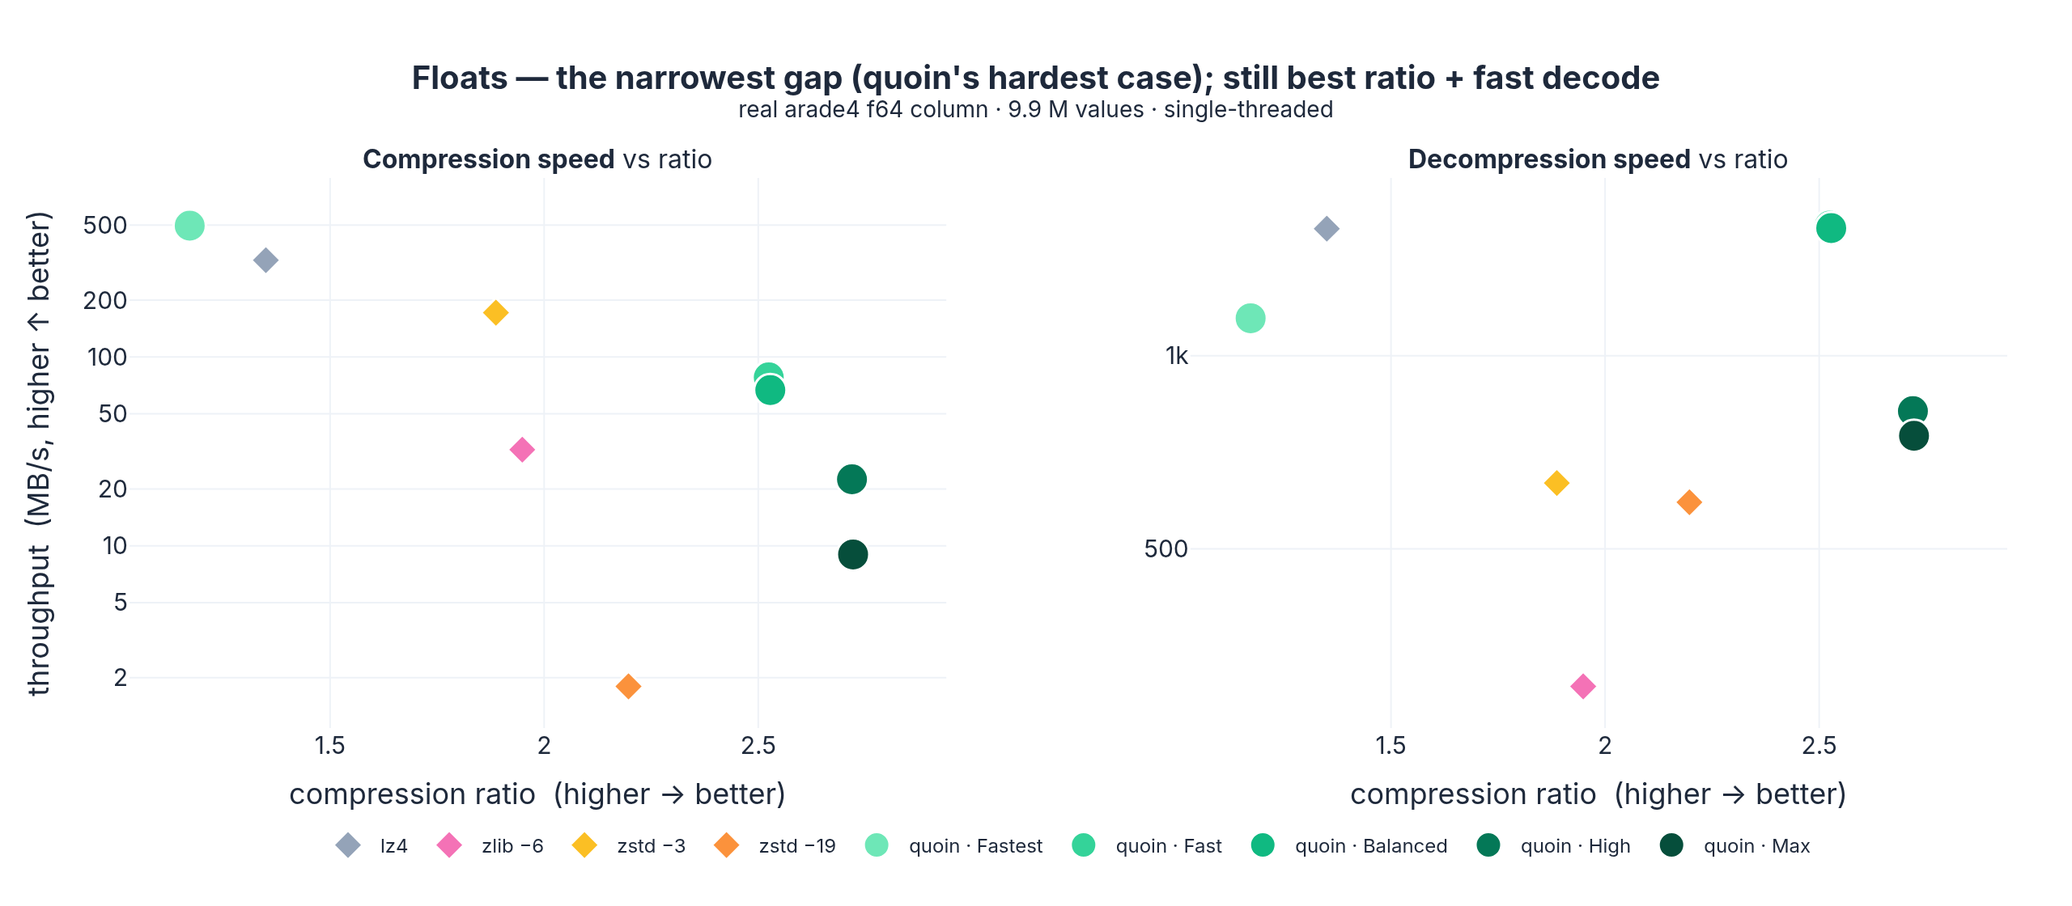
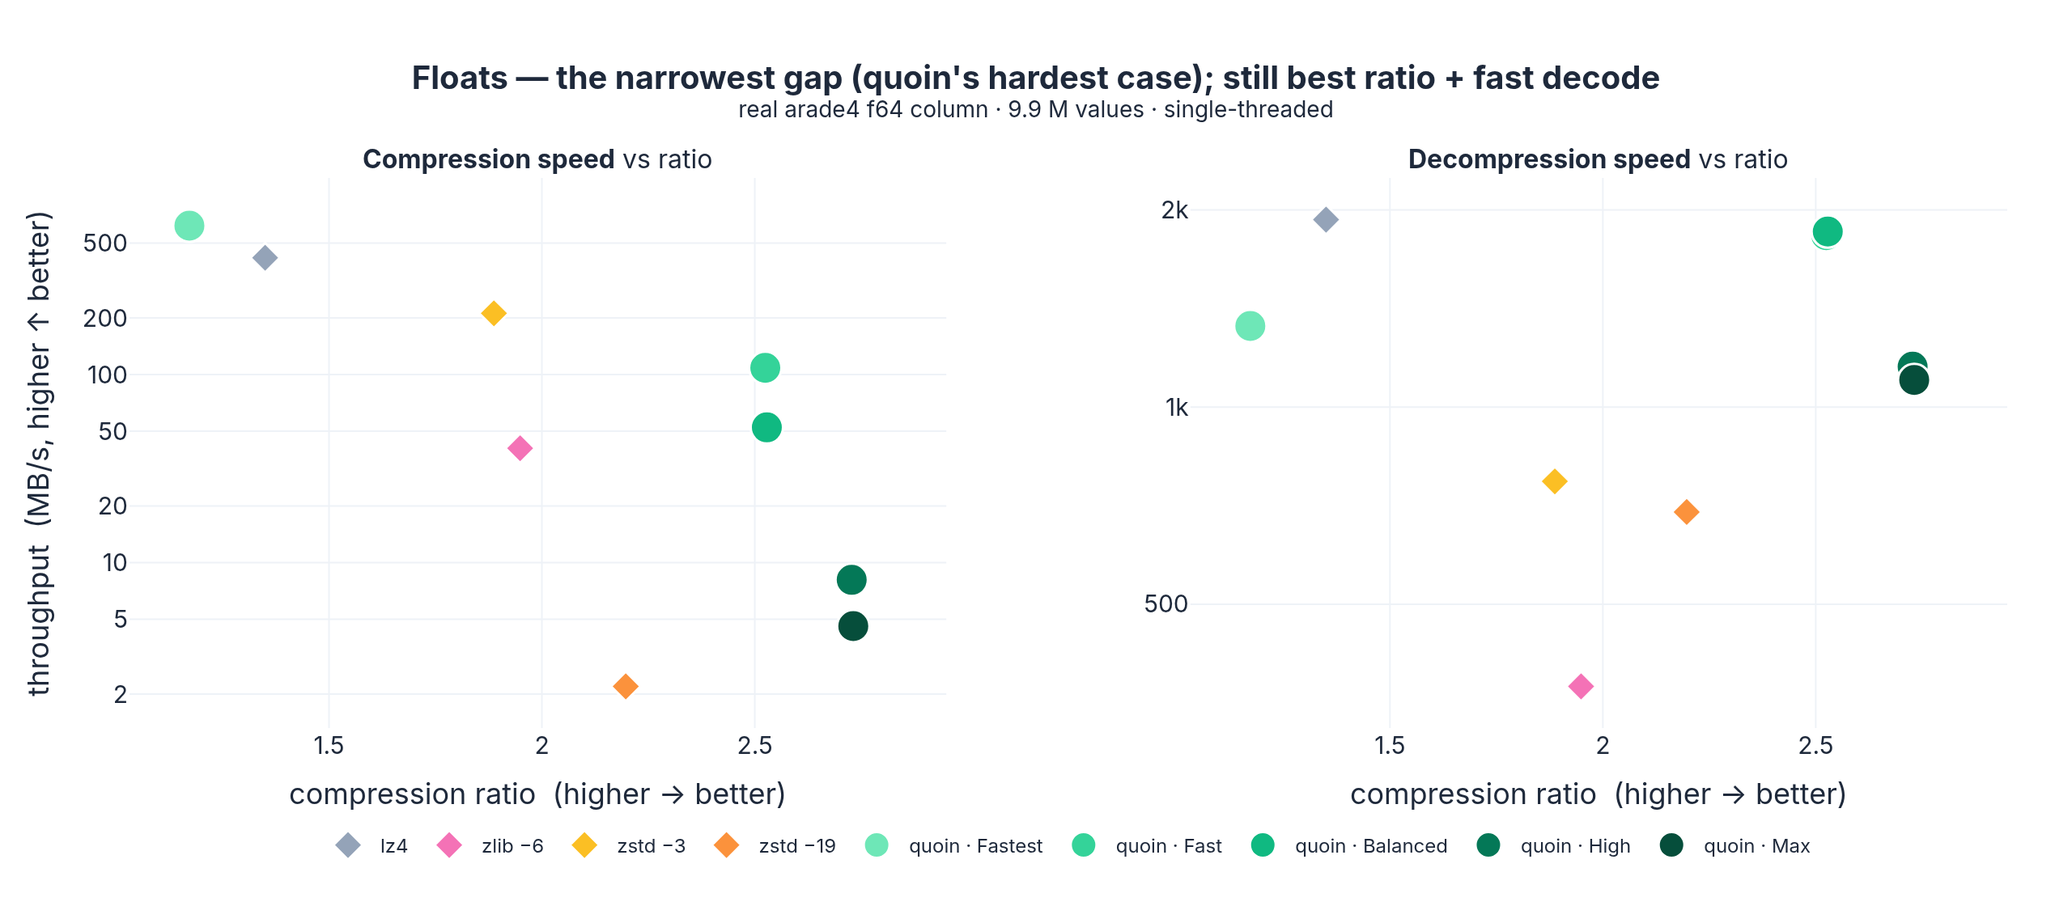
docs+bench: regenerate benchmarks, charts, and design docs
Re-ran the documented single-threaded harnesses (bench_readme,
bench_typed) and docs/plot_bench.py after the full-quantum planner and
DICT_SHARED landed. Headlines: poi_lat 1.20x -> 2.00x (now beats
zstd -19's 1.75x; quoin-Max wins 7 of 8 float corpus columns), broad
Balanced gains (basel_temp 3.40 -> 4.61, EventTime 5.7 -> 7.4,
RegionID 19.4 -> 26.7, food_prices-dec 8.8 -> 12.0), arade4 Max
2.72 -> 2.73. Encode-speed claims updated honestly (Max is slower
with full blocks: 9 -> 4.6 MB/s on arade4; the ~30x-vs-zstd-19 intro
claim is now ~25x at Balanced).

Updated: README + README.ru (codec list, all three benchmark tables,
prose), docs/BENCHMARKS.md (tables + poi_lat/poi_lon/medicare1 gap
rows), docs/ARCHITECTURE.md (block framing, competition order, codec
table + shared-dictionary section, stream format), ROADMAP, all five
charts.

diff --git a/README.md b/README.md
@@ -20,7 +20,7 @@ the way a general LZ compressor does.
 
 The payoff (single-threaded, see [Benchmarks](#benchmarks)): on real f64 columns
 quoin typically lands a **better compression ratio than `zstd -19` while
-compressing ~30× faster and decompressing 2–5× faster than zstd/zlib**. Its win is
+compressing ~25× faster and decompressing 2–5× faster than zstd/zlib**. Its win is
 ratio + decode speed; encode is a deliberate level tradeoff (the per-block codec
 search is CPU-heavy, so fast LZ codecs out-encode it at a far worse ratio).
 
@@ -74,11 +74,13 @@ biases toward cheap-to-decode modes).
 
 ### Codecs in the competition
 
-20 block modes plus three entropy-coder options. Highlights:
+21 block modes plus three entropy-coder options. Highlights:
 
 - **Integers:** `ForBitpack` (frame-of-reference + FastLanes bit-packing),
   `DeltaBitpack` (Parquet `DELTA_BINARY_PACKED`), `OrderedDelta` (2nd-order
-  zig-zag), `Dict` (low-cardinality), `Rle`.
+  zig-zag), `Dict` (low-cardinality), `DictShared` (a **column-wide value
+  dictionary** stored once per stream — blocks hold only codes, so values that
+  repeat *across* blocks are paid for once), `Rle`.
 - **Floats / decimals:** `Alp`, `AlpRd`, `FloatMult` (values that are integer
   multiples of `1/scale`), `Delta2` (2nd-order float extrapolation).
 - **Predictors:** `Pred` / `Pred2` / `PredRc` (FCM/DFCM hash predictors with XOR
@@ -177,9 +179,10 @@ Two honest takeaways across all three types:
   decompress panel (Fastest = fastest decode, Max = highest ratio, both still quick).
 - **Encode is a deliberate tradeoff.** The per-block codec *search* costs CPU, so
   quoin's high-ratio levels encode slower than fast `lz4`/`zstd -3` (which buy that
-  speed with a far worse ratio). quoin still encodes **10–40× faster than `zstd -19`
-  at a better ratio**, and the level knob (Fastest→Max) lets you trade encode speed
-  for ratio explicitly.
+  speed with a far worse ratio). quoin-Balanced still encodes **~25× faster than
+  `zstd -19` at a better ratio** (and even the exhaustive Max level ~2× faster),
+  and the level knob (Fastest→Max) lets you trade encode speed for ratio
+  explicitly.
 
 **Integers** — quoin-Max reaches 8.4× (vs `zstd -19`'s 5.1×) and decodes faster than
 every baseline; on encode it's slower than `zstd -3` but still ~3× faster than
@@ -188,8 +191,8 @@ every baseline; on encode it's slower than `zstd -3` but still ~3× faster than
 ![integer columns: ratio vs speed](docs/images/pareto_int.png)
 
 **Decimals** — quoin-Max takes the best ratio (17.4× vs `zstd -19`'s 14.3×);
-quoin-Balanced gets 13.3× at **40 MB/s** encode versus `zstd -19`'s 14.3× at
-**3 MB/s** (~13× faster), and the quoin levels own the decode panel:
+quoin-Balanced gets 13.4× at **36 MB/s** encode versus `zstd -19`'s 14.3× at
+**3 MB/s** (~12× faster), and the quoin levels own the decode panel:
 
 ![decimal columns: ratio vs speed](docs/images/pareto_decimal.png)
 
@@ -205,39 +208,41 @@ columns truncate the same data to show ratio is size-stable):
 
 | codec | ratio | compress MB/s | decompress MB/s | ratio @100 K | ratio @1 M |
 | --- | ---: | ---: | ---: | ---: | ---: |
-| quoin (Fastest) | 1.17 | **496** | 1144 | 1.18 | 1.17 |
-| quoin (Fast) | 2.52 | 78 | **1594** | 2.47 | 2.51 |
-| **quoin (Balanced)** | **2.53** | 67 | 1580 | 2.55 | 2.52 |
-| quoin (High) | 2.72 | 22 | 820 | 2.72 | 2.71 |
-| **quoin (Max)** | **2.72** | 9 | 750 | 2.72 | 2.71 |
-| lz4 | 1.35 | 326 | 1577 | 1.32 | 1.34 |
-| zlib -6 | 1.95 | 32 | 305 | 1.91 | 1.94 |
-| zstd -3 | 1.89 | 172 | 633 | 1.86 | 1.88 |
-| zstd -19 | 2.20 | 2.4 | 591 | 2.17 | 2.19 |
+| quoin (Fastest) | 1.17 | **619** | 1330 | 1.18 | 1.17 |
+| quoin (Fast) | 2.52 | 109 | 1830 | 2.47 | 2.51 |
+| **quoin (Balanced)** | **2.53** | 52 | 1854 | 2.47 | 2.51 |
+| quoin (High) | 2.73 | 8.1 | 1153 | 2.72 | 2.73 |
+| **quoin (Max)** | **2.73** | 4.6 | 1100 | 2.72 | 2.73 |
+| lz4 | 1.35 | 418 | **1933** | 1.32 | 1.34 |
+| zlib -6 | 1.95 | 41 | 375 | 1.91 | 1.94 |
+| zstd -3 | 1.89 | 212 | 770 | 1.86 | 1.88 |
+| zstd -19 | 2.20 | 2.2 | 691 | 2.17 | 2.19 |
 
 ### Ratio across real columns
 
-Across the ALP corpus, quoin-Max takes the best ratio on 6 of 8 columns (sorted
+Across the ALP corpus, quoin-Max takes the best ratio on 7 of 8 columns (sorted
 left→right by quoin's ratio below):
 
 ![compression ratio across real f64 columns](docs/images/ratio_breadth.png)
 
 | dataset | n | lz4 | zlib -6 | zstd -3 | zstd -19 | quoin-Bal | quoin-Max |
 | --- | ---: | ---: | ---: | ---: | ---: | ---: | ---: |
-| air_sensor | 8 664 | 1.00 | 1.13 | 1.07 | 1.19 | 1.19 | **1.38** |
-| bird_migration | 17 964 | 2.13 | 3.13 | 3.04 | 3.37 | 5.18 | **6.03** |
+| air_sensor | 8 664 | 1.00 | 1.13 | 1.07 | 1.19 | 1.38 | **1.38** |
+| bird_migration | 17 964 | 2.13 | 3.13 | 3.04 | 3.37 | 5.47 | **6.03** |
 | basel_wind | 123 480 | 2.29 | 3.74 | 4.38 | 5.00 | 6.46 | **7.29** |
-| poi_lat | 424 205 | 1.01 | 1.14 | 1.31 | **1.75** | 1.14 | 1.20 |
-| city_temperature | 2 000 000 | 2.48 | 4.43 | 4.05 | 6.29 | 7.34 | **8.68** |
-| food_prices | 2 000 000 | 2.55 | 4.08 | 3.87 | **4.93** | 3.87 | 4.83 |
-| neon_dew_point | 2 000 000 | 1.93 | 3.15 | 3.10 | 3.72 | 5.72 | **6.41** |
-| bitcoin_tx | 231 031 | 1.23 | 1.73 | 1.66 | 1.77 | 2.11 | **2.34** |
+| poi_lat | 424 205 | 1.01 | 1.14 | 1.31 | 1.75 | 1.82 | **2.00** |
+| city_temperature | 2 000 000 | 2.48 | 4.43 | 4.05 | 6.29 | 7.01 | **8.68** |
+| food_prices | 2 000 000 | 2.55 | 4.08 | 3.87 | **4.93** | 3.89 | 4.84 |
+| neon_dew_point | 2 000 000 | 1.93 | 3.15 | 3.10 | 3.72 | 6.03 | **6.62** |
+| bitcoin_tx | 231 031 | 1.23 | 1.73 | 1.66 | 1.77 | 2.34 | **2.35** |
 
-quoin-Max wins the ratio on 6 of 8 real columns (often by a wide margin —
-`city_temperature` 8.68× vs `zstd -19` 6.29×), and trades blows with `zstd -19`
-on the other two (`poi_lat`, `food_prices`), all while decoding far faster. Where
-a column is genuinely high-entropy (`poi_lat` geo-coordinates), a generic LZ
-stage still has an edge — quoin is honest about that.
+quoin-Max wins the ratio on 7 of 8 real columns (often by a wide margin —
+`city_temperature` 8.68× vs `zstd -19` 6.29×). `poi_lat` — repeated geo
+coordinates, formerly quoin's one loss here — flipped to a win (2.00× vs 1.75×)
+with the **column-wide shared value dictionary** (`DictShared`), which stores
+the distinct values once per stream instead of once per block. `zstd -19` keeps
+a small edge on one column (`food_prices`, 4.93 vs 4.84), all while quoin
+decodes far faster.
 
 ### Integers & decimals — where type-awareness pays off most
 
@@ -253,15 +258,15 @@ the raw little-endian value bytes.
 
 | column | type | lz4 | zstd -3 | zstd -19 | quoin-Bal | quoin-Max |
 | --- | --- | ---: | ---: | ---: | ---: | ---: |
-| EventTime (timestamp) | i64 | 2.1 | 4.6 | 5.1 | 5.7 | **8.4** |
+| EventTime (timestamp) | i64 | 2.1 | 4.6 | 5.1 | 7.4 | **8.4** |
 | UserID (clustered) | i64 | 9.8 | 12.4 | 12.6 | 10.9 | **14.6** |
 | WatchID (random) | i64 | 1.0 | 1.0 | 1.0 | 1.0 | 1.0 |
 | CounterID (low-card) | i32 | 254 | 9 950 | 10 444 | 780 | **19 231** |
-| RegionID | i32 | 12.1 | 20.1 | **29.5** | 19.4 | 28.7 |
-| IPNetworkID | i32 | 8.4 | 12.5 | 13.8 | 10.4 | **13.9** |
-| food_prices | dec128 | 5.6 | 8.9 | 10.8 | 8.8 | **12.9** |
-| city_temperature | dec128 | 5.4 | 12.0 | 14.3 | 13.3 | **17.4** |
-| bitcoin_tx | dec128 | 3.4 | 4.5 | 5.7 | 5.3 | **6.5** |
+| RegionID | i32 | 12.1 | 20.1 | **29.5** | 26.7 | 28.7 |
+| IPNetworkID | i32 | 8.4 | 12.5 | 13.8 | 13.9 | **13.9** |
+| food_prices | dec128 | 5.6 | 8.9 | 10.8 | 12.0 | **12.9** |
+| city_temperature | dec128 | 5.4 | 12.0 | 14.3 | 13.4 | **17.4** |
+| bitcoin_tx | dec128 | 3.4 | 4.5 | 5.7 | 6.4 | **6.5** |
 
 quoin-Max takes the best ratio on **every decimal column** and most integer
 columns; it ties everyone at ~1.0× on genuinely random IDs (`WatchID` — nothing
@@ -272,11 +277,11 @@ lz4:
 
 | column | type | lz4 | quoin-Fastest | quoin-Bal | quoin-Max |
 | --- | --- | ---: | ---: | ---: | ---: |
-| EventTime | i64 | 1105 | **1926** | 1007 | 1335 |
-| UserID | i64 | 1052 | 2149 | **3084** | 1731 |
-| RegionID | i32 | **1754** | 988 | 382 | 763 |
-| city_temperature | dec128 | **5040** | 3596 | 1952 | 708 |
-| bitcoin_tx | dec128 | 4966 | **5477** | 2414 | 3916 |
+| EventTime | i64 | 1384 | 2211 | 1460 | **2510** |
+| UserID | i64 | 1695 | 3078 | **5054** | 2791 |
+| RegionID | i32 | **2377** | 2157 | 1330 | 1246 |
+| city_temperature | dec128 | **5423** | 3545 | 1878 | 876 |
+| bitcoin_tx | dec128 | 4710 | **5572** | 4391 | 4129 |
 
 On the delta-friendly integers (`EventTime`, `UserID`) quoin-Max decodes **faster
 than lz4** while compressing 4–8× better. On pure bit-packed `RegionID` and the

diff --git a/docs/BENCHMARKS.md b/docs/BENCHMARKS.md
@@ -24,55 +24,60 @@ taskset -c 0 cargo run --release --no-default-features --example bench_typed \
 
 | codec | ratio | compress MB/s | decompress MB/s |
 | --- | ---: | ---: | ---: |
-| quoin (Fastest) | 1.17 | 496 | 1144 |
-| quoin (Fast) | 2.52 | 78 | **1594** |
-| **quoin (Balanced)** | **2.53** | 67 | 1580 |
-| quoin (High) | 2.72 | 22 | 820 |
-| **quoin (Max)** | **2.72** | 9 | 750 |
-| lz4 | 1.35 | **326** | 1577 |
-| zlib -6 | 1.95 | 32 | 305 |
-| zstd -3 | 1.89 | 172 | 633 |
-| zstd -19 | 2.20 | 2.4 | 591 |
+| quoin (Fastest) | 1.17 | **619** | 1330 |
+| quoin (Fast) | 2.52 | 109 | 1830 |
+| **quoin (Balanced)** | **2.53** | 52 | 1854 |
+| quoin (High) | 2.73 | 8.1 | 1153 |
+| **quoin (Max)** | **2.73** | 4.6 | 1100 |
+| lz4 | 1.35 | 418 | **1933** |
+| zlib -6 | 1.95 | 41 | 375 |
+| zstd -3 | 1.89 | 212 | 770 |
+| zstd -19 | 2.20 | 2.2 | 691 |
 
 quoin wins **ratio and decode**: quoin-Balanced beats `zstd -19`'s ratio (2.53 vs
 2.20) and decodes **~2.7× faster**. Encode is a deliberate tradeoff — the per-block
 codec search is CPU-heavy, so the fast LZ baselines encode quicker (at far lower
-ratio) while quoin still encodes ~30× faster than `zstd -19`; the Fastest→Max ladder
-spans 496→9 MB/s encode.
+ratio) while quoin-Balanced still encodes ~25× faster than `zstd -19`; the
+Fastest→Max ladder spans 619→4.6 MB/s encode.
 
 ### Floats — ratio across the ALP corpus (quoin-Max vs baselines)
 
 | column | lz4 | zlib -6 | zstd -3 | zstd -19 | quoin-Bal | quoin-Max |
 | --- | ---: | ---: | ---: | ---: | ---: | ---: |
-| air_sensor | 1.00 | 1.13 | 1.07 | 1.19 | 1.19 | **1.38** |
-| bird_migration | 2.13 | 3.13 | 3.04 | 3.37 | 5.18 | **6.03** |
+| air_sensor | 1.00 | 1.13 | 1.07 | 1.19 | 1.38 | **1.38** |
+| bird_migration | 2.13 | 3.13 | 3.04 | 3.37 | 5.47 | **6.03** |
 | basel_wind | 2.29 | 3.74 | 4.38 | 5.00 | 6.46 | **7.29** |
-| poi_lat | 1.01 | 1.14 | 1.31 | **1.75** | 1.14 | 1.20 |
-| city_temperature | 2.48 | 4.43 | 4.05 | 6.29 | 7.34 | **8.68** |
-| food_prices | 2.55 | 4.08 | 3.87 | **4.93** | 3.87 | 4.83 |
-| neon_dew_point | 1.93 | 3.15 | 3.10 | 3.72 | 5.72 | **6.41** |
-| bitcoin_tx | 1.23 | 1.73 | 1.66 | 1.77 | 2.11 | **2.34** |
+| poi_lat | 1.01 | 1.14 | 1.31 | 1.75 | 1.82 | **2.00** |
+| city_temperature | 2.48 | 4.43 | 4.05 | 6.29 | 7.01 | **8.68** |
+| food_prices | 2.55 | 4.08 | 3.87 | **4.93** | 3.89 | 4.84 |
+| neon_dew_point | 1.93 | 3.15 | 3.10 | 3.72 | 6.03 | **6.62** |
+| bitcoin_tx | 1.23 | 1.73 | 1.66 | 1.77 | 2.34 | **2.35** |
+
+`poi_lat` — repeated geo coordinates, formerly quoin's one loss here — flipped
+to a win (2.00× vs 1.75×) via the **column-wide shared value dictionary**
+(`DICT_SHARED`), which stores the distinct values once per stream instead of
+once per block. `food_prices` remains `zstd -19`'s one edge (4.93 vs 4.84).
 
 ### Integers (real ClickBench) & Decimal128 — ratio
 
 | column | type | lz4 | zstd -3 | zstd -19 | quoin-Bal | quoin-Max |
 | --- | --- | ---: | ---: | ---: | ---: | ---: |
-| EventTime (timestamp) | i64 | 2.1 | 4.6 | 5.1 | 5.7 | **8.4** |
+| EventTime (timestamp) | i64 | 2.1 | 4.6 | 5.1 | 7.4 | **8.4** |
 | UserID (clustered) | i64 | 9.8 | 12.4 | 12.6 | 10.9 | **14.6** |
 | WatchID (random) | i64 | 1.0 | 1.0 | 1.0 | 1.0 | 1.0 |
 | CounterID (low-card) | i32 | 254 | 9 950 | 10 444 | 780 | **19 231** |
-| RegionID | i32 | 12.1 | 20.1 | **29.5** | 19.4 | 28.7 |
-| IPNetworkID | i32 | 8.4 | 12.5 | 13.8 | 10.4 | **13.9** |
-| food_prices | dec128 | 5.6 | 8.9 | 10.8 | 8.8 | **12.9** |
-| city_temperature | dec128 | 5.4 | 12.0 | 14.3 | 13.3 | **17.4** |
-| bitcoin_tx | dec128 | 3.4 | 4.5 | 5.7 | 5.3 | **6.5** |
+| RegionID | i32 | 12.1 | 20.1 | **29.5** | 26.7 | 28.7 |
+| IPNetworkID | i32 | 8.4 | 12.5 | 13.8 | 13.9 | **13.9** |
+| food_prices | dec128 | 5.6 | 8.9 | 10.8 | 12.0 | **12.9** |
+| city_temperature | dec128 | 5.4 | 12.0 | 14.3 | 13.4 | **17.4** |
+| bitcoin_tx | dec128 | 3.4 | 4.5 | 5.7 | 6.4 | **6.5** |
 
 Type-awareness pulls furthest ahead on integers/decimals (f64 is the hardest case).
 quoin-Max takes the best ratio on every decimal column and most integer columns;
 it ties at ~1.0× on random IDs (`WatchID`), and `zstd -19` edges `RegionID`.
 Single-threaded, quoin's win is ratio + decode: on `city_temperature` decimals
-quoin-Max reaches 17.4× (vs `zstd -19`'s 14.3×) decoding at ~700 MB/s, quoin-Balanced
-13.3× decoding at ~2 GB/s. Encode is the tradeoff (the codec search is CPU-heavy):
+quoin-Max reaches 17.4× (vs `zstd -19`'s 14.3×) decoding at ~880 MB/s, quoin-Balanced
+13.4× decoding at ~1.9 GB/s. Encode is the tradeoff (the codec search is CPU-heavy):
 the fast LZ baselines encode quicker at far lower ratio, while quoin still encodes
 well ahead of `zstd -19`. The plots are in `docs/images/`
 (`pareto_int/decimal/float.png`, `ratio_breadth.png`, `typed_ratio.png`),
@@ -136,9 +141,9 @@ After adding **ALP-RD** and **dictionary/RLE**:
 
 | Column | q-max | zstd-19 | Status |
 | --- | --- | --- | --- |
-| poi_lat | 1.00→**1.14×** | 1.75× | ALP-RD now used (was RAW). Decodes ~5× faster than zstd. |
-| poi_lon | 1.00→**1.12×** | 1.49× | ALP-RD. |
-| medicare1 | **2.01×** | 2.83× | DICT value compression + code entropy help, but high-cardinality billing sequences still trail zstd. |
+| poi_lat | 1.14→**2.00×** | 1.75× | **Resolved:** `DICT_SHARED` — the column-wide shared value dictionary stores the ~100 K distinct coordinates once per stream; now beats zstd-19. |
+| poi_lon | 1.12→**1.21×** | 1.49× | ALP-RD + full-quantum blocks; still trails zstd (cardinality too high for the shared dictionary to fire). |
+| medicare1 | 2.01→**2.37×** | 2.83× | DICT value compression + code entropy help, but high-cardinality billing sequences still trail zstd. |
 | basel_wind | 2.10→**7.29×** | 5.00× | **Resolved:** running the strong modes (ALP) before the predictors fixed a `block_compressible` ordering bug that wrongly skipped LZ/transpose/dict here — now beats zstd-19 (see the top "README benchmark" section). |
 | basel_temp | **4.58×** | 3.95× | DICT code entropy now beats zstd on this column. |
 

diff --git a/docs/ARCHITECTURE.md b/docs/ARCHITECTURE.md
@@ -82,11 +82,15 @@ bit-packers, LZ, transpose, dict, pco) apply to both.
 
 ## 4. Block framing
 
-A column is split by `plan_blocks` (`encoder.rs`): an adaptive base of ~256 KiB
-that grows toward ~1 MiB when a cheap probe says the data is low-entropy
-(dictionary-like / constant / run-heavy), so cheap columns pay less framing
-overhead. A fixed `Config.block_size` pins every block to a row count (for
-storage-chunk alignment / random access).
+A column is split by `plan_blocks` (`encoder.rs`). The **ratio-first levels**
+(`High`/`Max`) use full ~1 MiB blocks outright — the wider LZ/dict/entropy
+window never lost ratio on the corpus (and won up to +14% where the probe
+under-grew), and coarse random access is exactly what those levels trade away.
+The fast levels keep an adaptive base of ~256 KiB that grows toward ~1 MiB only
+when a cheap probe says the data is low-entropy (dictionary-like / constant /
+run-heavy), preserving fine-grained random access and parallelism on noisy
+data. A fixed `Config.block_size` overrides both (for storage-chunk alignment /
+random access).
 
 Each block becomes a **frame**: `[mode byte | payload]`. An unknown mode byte is a
 hard decode error, never a silent zero-fill.
@@ -101,9 +105,10 @@ tight incumbent is established early:
 
 1. **Structural / cheap** — RAW (the baseline every mode must beat), CONST,
    STRIDE, XORZ.
-2. **Cheap strong** — FoR+bitpack, delta+bitpack, and (float) FLOAT_MULT / ALP /
-   ALP-RD. These give a tight `best` *before* the expensive predictors, which is
-   what lets the estimate gate (below) prune.
+2. **Cheap strong** — FoR+bitpack, delta+bitpack, (float) FLOAT_MULT / ALP /
+   ALP-RD, and DICT_SHARED when the column-wide table exists. These give a
+   tight `best` *before* the expensive predictors, which is what lets the
+   estimate gate (below) prune.
 3. **Predictors** (`High`/`Max` only) — FCM/DFCM, polynomial-float, 2nd-order int.
    Each is gated by `coded_if_competitive`: an **order-1 entropy estimate** of its
    residual; the full range-code is skipped when even an optimistic estimate can't
@@ -143,7 +148,7 @@ stream returns `Error`, never panics or over-allocates.
 
 ## 7. Codecs
 
-20 block modes, by family (`mode.rs`, `codecs/`):
+21 block modes, by family (`mode.rs`, `codecs/`):
 
 | Group | Modes | Notes |
 | --- | --- | --- |
@@ -151,9 +156,26 @@ stream returns `Error`, never panics or over-allocates.
 | Integer bit-pack | `ForBitpack`, `DeltaBitpack` | frame-of-reference / delta + FastLanes bit-pack. Random-access, fast decode. |
 | Float value | `Alp`, `AlpRd`, `FloatMult` | doubles that are really decimals → scaled integers (ALP) or split-dictionary (ALP-RD). |
 | Predictors | `Pred`, `PredRc`, `Pred2`, `Delta2`, `DeltaDp`, `OrderedDelta` | FCM/DFCM hash + XOR residual; polynomial-float; 2nd-order int. Sequential decode. |
-| Dictionary | `Dict`, `Rle` | low-cardinality / run-heavy. |
+| Dictionary | `Dict`, `DictShared`, `Rle` | low-cardinality / run-heavy; `DictShared` codes into the **column-wide shared table** (see below). |
 | Generic | `ByteTranspose`, `Lz` | AoS→SoA byte planes; LZ77 over the block. |
 | Numeric backend | `Pco` | vendored pcodec — latent decomposition + bin-packing + ANS. |
+
+### The shared value dictionary
+
+Per-block `Dict` pays for its value table in every block — on columns whose
+distinct values recur *across* blocks (repeated coordinates, IDs, quantized
+readings) that either loses the competition or re-stores the same values per
+block. `DictShared` lifts the table to a **column preamble**: `build_shared`
+(one hash pass, bails above 50% cardinality or 2²⁰ distinct) stores the sorted
+distinct values once, compressed by the same raw/delta/transpose choice as
+`Dict`'s local table; each `DictShared` frame then holds only the codes
+section. A **net-win gate** keeps the preamble only when the blocks that chose
+`DictShared` saved more (vs their runner-up) than the preamble costs —
+otherwise those blocks are re-encoded without it, so streams never pay for a
+dead table. Blocks stay independently decodable given the read-only table, so
+parallel decode is preserved. Measured: `poi_lat` (424 K values, ~100 K
+distinct) went 1.20× → **2.00×**, reclaiming the whole-column-scope win inside
+the normal block pipeline; columns that never pick it are byte-identical.
 
 `Decimal128/256` are handled by `decimal.rs` (limb split → each limb through the
 integer engine), not a `Mode`.
@@ -212,12 +234,14 @@ the pure-ratio (`λ = 0`, all codecs) policy.
 ## 10. Stream format
 
 ```
-stream  = header ++ frame*
-header  = magic ++ version ++ dtype ++ flags ++ n_values ++ predictor_log2 ++ [validity]
+stream  = header ++ [validity] ++ [shared-dict preamble] ++ frame*
+header  = magic ++ version ++ dtype ++ flags ++ n_values ++ predictor_log2
 frame   = mode:u8 ++ payload          (one per block)
 ```
 
-The header records the column `DType` and (if present) the validity bitmap. Each
+The header records the column `DType`; flags mark the optional validity bitmap
+and the optional shared-dictionary preamble (the column-wide value table for
+`DictShared` frames), each of which follows the header in that order. Each
 frame's payload layout is mode-specific. The format is **internal** (not stabilized
 across versions) — the decoder always matches the encoder in the same build.
 

diff --git a/ROADMAP.md b/ROADMAP.md
@@ -96,6 +96,19 @@ BtrBlocks, FastLanes, ALP, pcodec) and the prioritized "steal list" live in
        q-max. ✅ **dict→entropy cascade** for ≤256-cardinality blocks (basel_temp
        2.13→3.22×). **Pending:** a wider-alphabet cascade for high-cardinality
        columns (`medicare1`, ~46 K distinct/block), and `ALP digits → entropy`.
+3b. [x] **Full-quantum blocks at ratio-first levels** — `Balanced`/`High`/`Max`
+       plan 1 MiB blocks outright instead of probe-and-grow (`plan_blocks`);
+       measured never-worse on the corpus, up to +13.7% at Max (`basel_temp`)
+       and +35% at Balanced where the low-entropy probe declined to grow.
+       (Whole-column-sized blocks were measured and rejected: arade4 −3.2%,
+       medicare1 decode 803→46 MB/s, encode collapse — see `git log`.)
+3c. [x] **Shared value dictionary** (`DICT_SHARED`, mode 55) — the column-wide
+       distinct-value table stored once in a stream preamble; blocks hold only
+       codes. Net-win-gated (streams never pay for a dead preamble), parallel
+       decode preserved. `poi_lat` 1.20× → **2.00×** (beats zstd -19's 1.75×,
+       previously quoin's one ratio loss on the corpus). A shared *LZ*
+       dictionary was prototyped and shelved: sampled dicts recover only ~40%
+       of the LZ window gap on `poi_lon` (1.21→1.27 of →1.38 whole-column).
 4. [ ] **PFOR patching** — move range-outliers to exceptions in FOR_BITPACK/ALP so
        one large value doesn't widen a whole sub-block.
 4. [x] **Typed column API** — generalize off `f64` to real typed columns + a type
